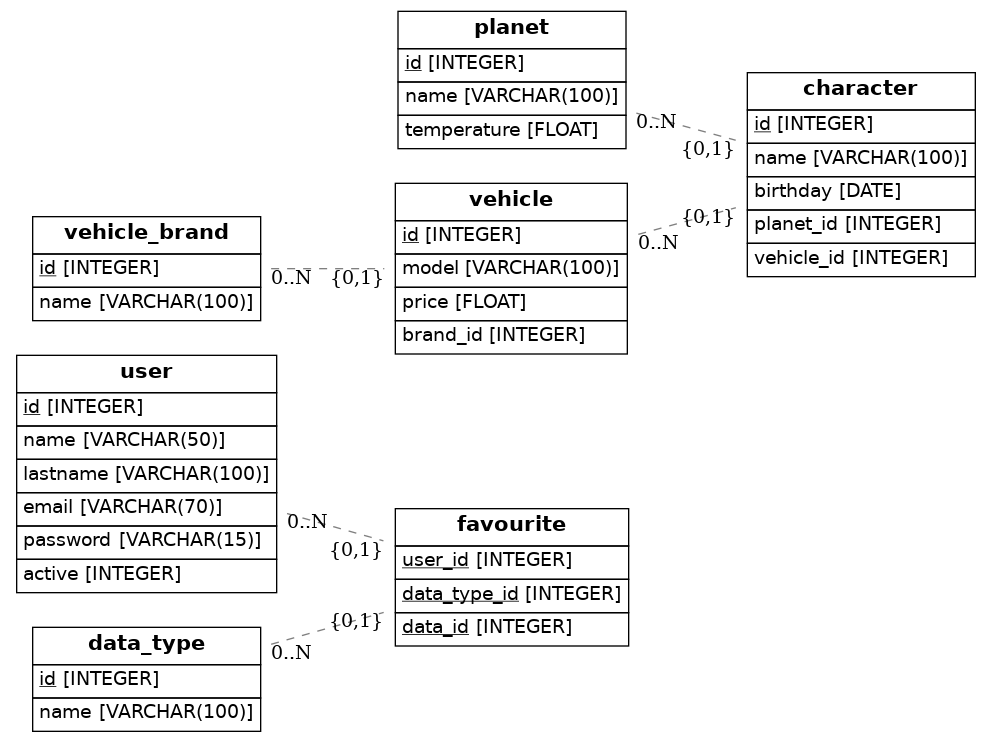
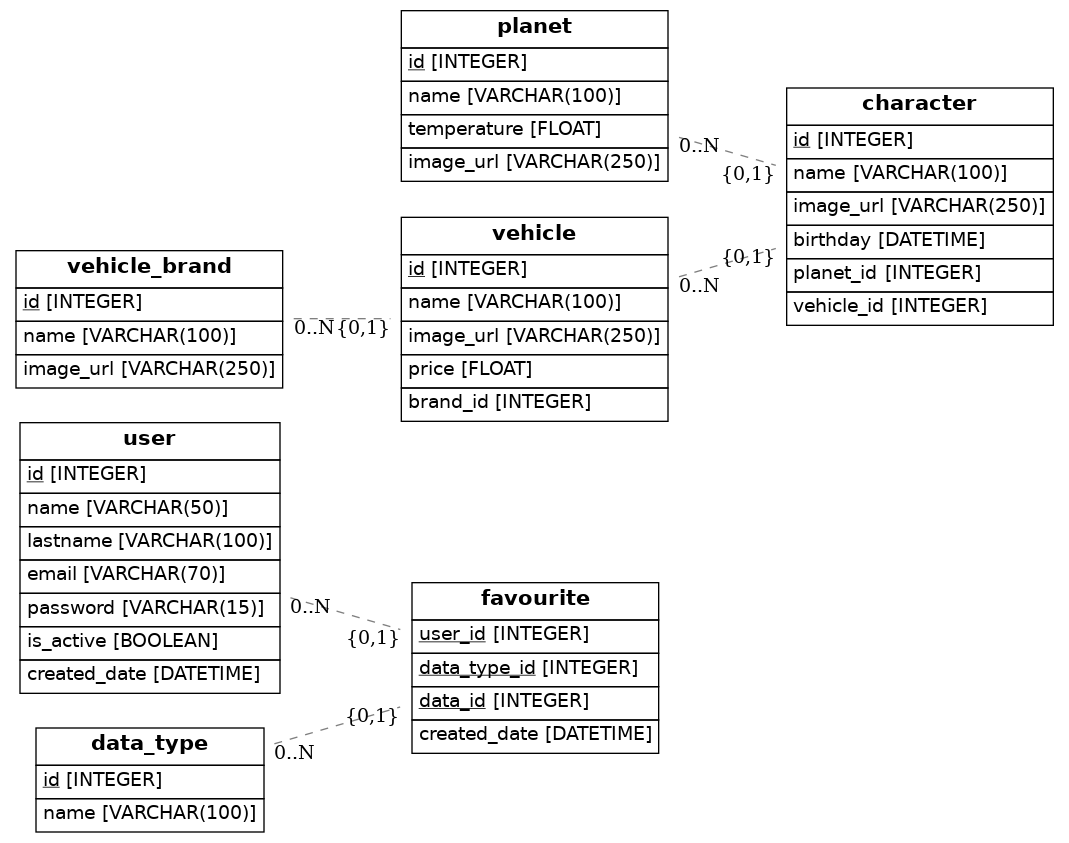
refactor

Changed region(s): [[0.0, 0.0, 0.999, 0.9919], [0.3027, 0.6819, 0.6357, 0.8989]]

diff --git a/src/models.py b/src/models.py
@@ -1,6 +1,6 @@
 import os
 import sys
-from sqlalchemy import Column, ForeignKey, Integer, Date, Float, String
+from sqlalchemy import Column, ForeignKey, Integer, Boolean, DateTime, Float, String
 from sqlalchemy.ext.declarative import declarative_base
 from sqlalchemy.orm import relationship
 from sqlalchemy import create_engine
@@ -16,7 +16,8 @@ class User(Base):
     lastname = Column(String(100), nullable=False)
     email = Column(String(70), nullable=False)
     password = Column(String(15), nullable=False)
-    active = Column(Integer, default=0)
+    is_active = Column(Boolean)
+    created_date = Column(DateTime)
 
 # Existing data types (Planet, Vehicle, Character...)
 class DataType(Base):
@@ -29,16 +30,19 @@ class Planet(Base):
     id = Column(Integer, primary_key=True)
     name = Column(String(100), nullable=False)
     temperature = Column(Float)
+    image_url = Column(String(250))
 
 class Vehicle_Brand(Base):
     __tablename__ = "vehicle_brand"
     id = Column(Integer, primary_key=True)
     name = Column(String(100), nullable=False)
+    image_url = Column(String(250))
 
 class Vehicle(Base):
     __tablename__ = "vehicle"
     id = Column(Integer, primary_key=True)
     name = Column(String(100), nullable=False)
+    image_url = Column(String(250))
     price = Column(Float)
     brand_id = Column(Integer, ForeignKey("vehicle_brand.id"))
     brand = relationship(Vehicle_Brand)
@@ -47,7 +51,9 @@ class Character(Base):
     __tablename__ = "character"
     id = Column(Integer, primary_key=True)
     name = Column(String(100), nullable=False)
-    birthday = Column(Date, nullable=False)
+    description = (String(200))
+    image_url = Column(String(250))
+    birthday = Column(DateTime, nullable=False)
     planet_id = Column(Integer, ForeignKey("planet.id"))
     vehicle_id = Column(Integer, ForeignKey("vehicle.id"))
     planet = relationship(Planet)
@@ -59,6 +65,7 @@ class Favourite(Base):
     user_id = Column(Integer, ForeignKey("user.id"), primary_key=True)
     data_type_id = Column(Integer, ForeignKey("data_type.id"), primary_key=True)
     data_id = Column(Integer, primary_key=True)
+    created_date = Column(DateTime)
     
 ## Draw from SQLAlchemy base
 render_er(Base, "diagram.png")
